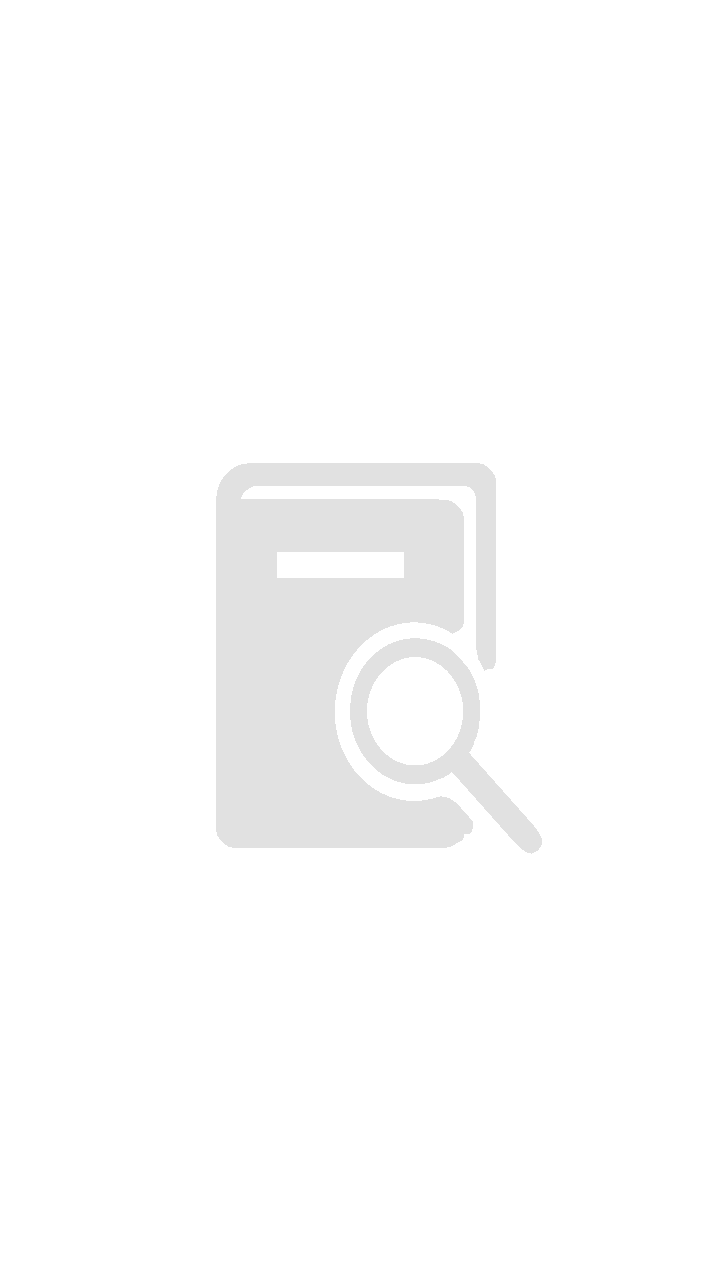
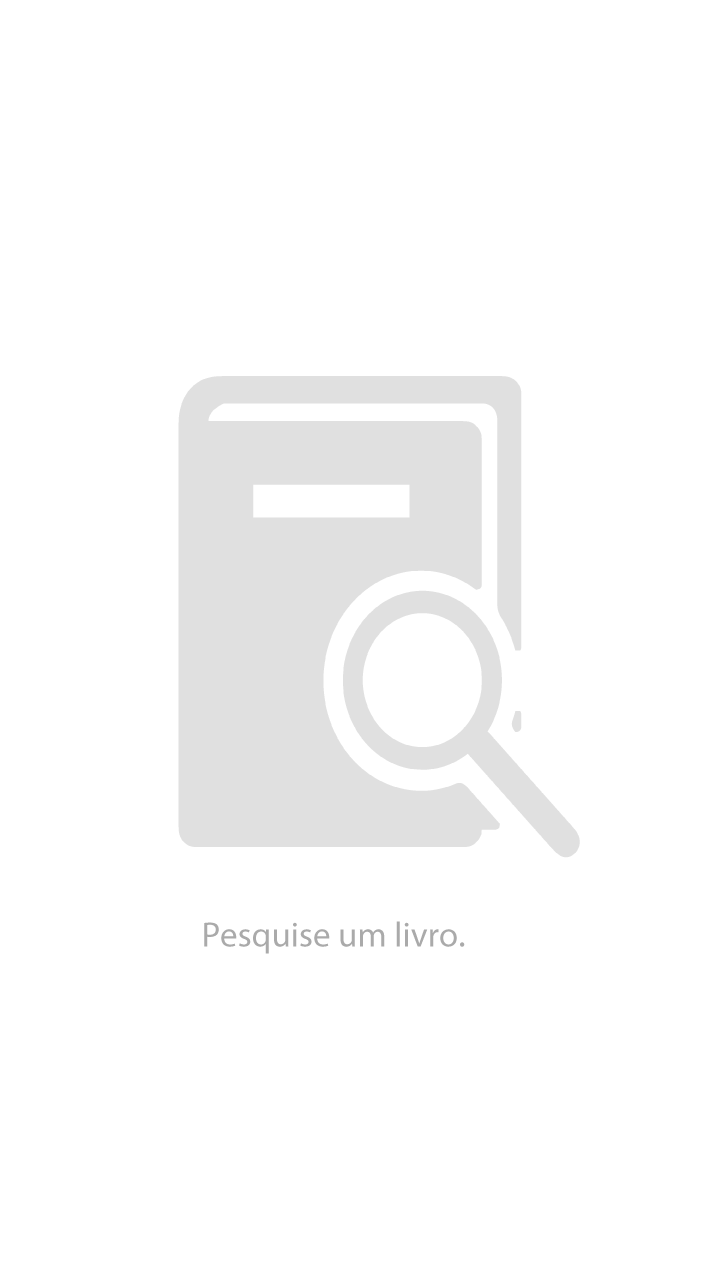
Ajuste ao grid

diff --git a/www/view/sideMenu.html b/www/view/sideMenu.html
@@ -13,30 +13,32 @@
     <header class="bar bar-header bar-stable">
      <!--<img class="title" src="img/brasao1_horizontal_cor.svg"-->
       <div class="ufcLogo">
-        <img class="title" style="margin-top: 2px; margin-left: 14px;" src="img/brasao1_horizontal_cor_72dpi.png" />
+        <img class="title" style="margin-top: 2px; margin-left: 17px;" src="img/brasao1_horizontal_cor_72dpi.png" />
       </div>
     </header>
     <ion-content class="has-header">
       <ion-list>
-        <ion-item menu-close href="#/app/home">
-          <i ng-class="{'mdi': isAndroid, 'mdi-home': isAndroid, 'ion-ios-home': isIOS}"></i><span class="text-vertical-aligned-menu">Home</span>
-        </ion-item>
-        <ion-item menu-close href="#/app/busca/false">
-          <i class="mdi mdi-magnify"></i><span class="text-vertical-aligned-menu">Pesquisar Livros</span>
-        </ion-item>  
-        <ion-item menu-close href="#/app/Bibliotecas">
-           <i class="mdi mdi-city"></i><span class="text-vertical-aligned-menu">Bibliotecas</span>
-        </ion-item>
-        </ion-item>
-        <ion-item menu-close href="#/app/livrosAlugados">
-          <i class="mdi glyphter" id="alugados">B</i><span class="text-vertical-aligned-menu">Livros Alugados</span>
-        </ion-item>
-        <ion-item menu-close href="#/app/codificacao">
-          <i class="mdi glyphter">A</i><span class="text-vertical-aligned-menu">Guia de Codificação</span>
-        </ion-item>
-        <ion-item menu-close href="#/app/sobre">
-          <i class="mdi mdi-information"></i><span class="text-vertical-aligned-menu">Sobre</span>
-        </ion-item>
+        <div class="sideMenu">
+          <ion-item menu-close href="#/app/home">
+            <i ng-class="{'mdi': isAndroid, 'mdi-home': isAndroid, 'ion-ios-home': isIOS}"></i><span class="text-vertical-aligned-menu">Home</span>
+          </ion-item>
+          <ion-item menu-close href="#/app/busca/false">
+            <i class="mdi mdi-magnify"></i><span class="text-vertical-aligned-menu">Pesquisar Livros</span>
+          </ion-item>  
+          <ion-item menu-close href="#/app/Bibliotecas">
+             <i class="mdi mdi-city"></i><span class="text-vertical-aligned-menu">Bibliotecas</span>
+          </ion-item>
+          </ion-item>
+          <ion-item menu-close href="#/app/livrosAlugados">
+            <i class="mdi glyphter" id="alugados">B</i><span class="text-vertical-aligned-menu"> Livros Alugados</span>
+          </ion-item>
+          <ion-item menu-close href="#/app/codificacao">
+            <i class="mdi glyphter">A</i><span class="text-vertical-aligned-menu">Guia de Codificação</span>
+          </ion-item>
+          <ion-item menu-close href="#/app/sobre">
+            <i class="mdi mdi-information"></i><span class="text-vertical-aligned-menu">Sobre</span>
+          </ion-item>
+        </div>
       </ion-list>
     </ion-content>
   </ion-side-menu>

diff --git a/www/view/addLivrosAlugados.html b/www/view/addLivrosAlugados.html
@@ -1,27 +1,41 @@
 <ion-view view-title="Adicionar Livros">
-	<ion-nav-bar class="bar-positive bar-azulUFC">
-		<ion-nav-back-button class="button-clear">
+	<ion-nav-bar class="bar-positive bar-azulUFC bar-azulUfc-shadow">
+		<ion-nav-buttons>
     		<button class="button button-icon icon mdi mdi-arrow-left" ng-click="goBack()"></button>
-  		</ion-nav-back-button>
+  		</ion-nav-buttons>
 	</ion-nav-bar>
 	<ion-content class="has-header" scroll="false">
 		<form name="addLivroForm" ng-submit="addLivro(livro)">
 			<div class="list ">
 			  <label class="item item-input">
-			    <span class="input-label">Livro</span>
+			    <span class="input-label" style="margin-left: 10px !important;">Livro:</span>
 			    <input type="text" ng-model="livro.nome_livro" ng-required="true"/>
 			  </label>
+			  <!--
 			  <label class="item item-input">
-			    <span class="input-label">Biblioteca</span>
-			    <input type="text" ng-model="livro.biblioteca_livro" ng-required="true"/>
+			    <span class="input-label">Biblioteca:</span>
+			    <select type="text" ng-model="livro.biblioteca_livro" ng-options="bibliotecas.sigla as label for sigla in bibliotecas" ng-required="true">
+			    </select>
+			    <option value="">Selecione uma biblioteca</option>
 			  </label>
+			  <i id="incoInfo" class="mdi mdi-calendar"></i>
+				-->
+			  <label class="item item-input item-select">
+			    <span class="input-label" style="margin-left: 10px !important;">
+			      Biblioteca:
+			    </span>
+			    <select ng-model="livro.biblioteca_livro" ng-options="biblioteca.sigla for biblioteca in bibliotecas">
+			    </select>			     
+			  </label>
+
 			  <label class="item item-input">
-			    <span class="input-label">Data de entrega</span>
+			    <span class="input-label" style="margin-left: 10px !important;">Data de entrega:</span>
 			    <input type="date" ng-model="livro.data_devolucao" min="{{dataAtual | date: 'yyyy-MM-dd'}}" ng-required="true"/>
 			  </label>
 			</div>
+
 			<button type="submit" class="mdl-button mdl-js-button mdl-button--raised mdl-button--accent centralizar">
-  				Salvar!
+  				Salvar
 			</button>
 		</form>
 	</ion-content>

diff --git a/www/view/home.html b/www/view/home.html
@@ -4,7 +4,7 @@
 			<img src="img/codexLogo.png">
 		</div>
 	</ion-nav-title>
-	<ion-nav-bar class="bar-positive bar-azulUFC">
+	<ion-nav-bar class="bar-positive bar-azulUFC ">
 		<ion-nav-buttons side="left">
 	    	<button menu-toggle="left" class="button button-icon icon mdi mdi-menu"></button>
 	  	</ion-nav-buttons>
@@ -12,15 +12,15 @@
 	  		
     	</ion-nav-buttons>
     	<ion-nav-buttons side="right">
-    		<button  class="button button-icon icon mdi mdi-bell-outline button-size-busca"></button>
+    		<button  class="button button-icon icon mdi mdi-bell-outline button-size-busca" ></button>
     		<a href="#/app/busca/true">
-      			<button  class="button button-icon icon mdi mdi-magnify button-size-busca" ng-click="doSomething()"></button>
+      			<button  class="button button-icon icon mdi mdi-magnify button-size-busca" id="busca-icon" ng-click="doSomething()"></button>
       		</a>
     	</ion-nav-buttons>
   	</ion-nav-bar>
 	
 	<ion-content class="has-header">
-			<div style="width:100%;margin-top:2vh"> <!--margin-top:2vh -->
+			<div style="width:100%;z-index: 9999;"> <!--margin-top:2vh -->
 				<div id="MenuTopo" style="padding:0;margin:0;background:#0066A5;height:7vh;">
 					<button class="button-small button-Home" ng-click="PreviewBiblio()" style="float:left;"><i class="ion-chevron-left"></i></button>
 					<button class="button-small button-Home" ng-click="NextBiblio()" style="float:right;"><i class="ion-chevron-right"></i></button>
@@ -50,7 +50,7 @@
 				</button>
 				
 				<div>
-					<p>Você Sabia ?</p>
+					<p >Você Sabia ?</p>
 				</div>
 			</div>	
 			<div id="Curiosidade" data-tap-disabled="false">

diff --git a/www/css/style.css b/www/css/style.css
@@ -1,8 +1,6 @@
 /* Empty. Add your own CSS if you like */
-.sideMenu a{
-	text-decoration: none;
-	color: black;
-	margin-left: 5%; 
+.sideMenu i{
+	margin-left: 1vw; 
 }
 
 body {
@@ -37,9 +35,13 @@ button.button-size-busca:before{
   font-size: 23px !important;
 }
 
+#busca-icon{
+  margin-top: 1px ;
+}
+
 .text-vertical-aligned-menu{
 	vertical-align: 10%;
-	margin-left: 20px;
+	margin-left: 17px;
 	color: #222 !important;
 }
 
@@ -82,6 +84,9 @@ button.centralizar{
   display: block;
   margin-left: auto;
   margin-right: auto;
+  margin-top: 10vh;
+  width: 40%;
+  height: 50px; !important;
 }
 .mdl-button--accent{
   background-color: #004B82 !important;
@@ -129,8 +134,12 @@ button.centralizar{
 	background-image: linear-gradient(0deg, #004B82, #004B82 50%, transparent 50%);
   top: 0;
   border-top-width: 0;
-  box-shadow: 0 3px 6px rgba(0,0,0,0.16), 0 3px 6px rgba(0,0,0,0.23);
+  
     }
+
+.bar-azulUfc-shadow{
+  box-shadow: 0 3px 6px rgba(0,0,0,0.16), 0 3px 6px rgba(0,0,0,0.23);
+}
 
 .list div.item{
   border-top: 0px;
@@ -195,7 +204,7 @@ button.centralizar{
   font-family: glyphter !important;
   font-size: 24px;
   vertical-align: -20%;
-  margin-left: 2px;
+  margin-left: 7px !important;
   margin-right: -2px;
 }
 
@@ -204,9 +213,20 @@ button.centralizar{
 }
 
 .capaInfo{
-  width: 62%; 
+  width: 60vw; 
   margin-bottom: 5vh;
   display: block;
   margin-right: auto;
   margin-left: auto;
+}
+
+.infoLivro-item{
+  margin-left: 1vw;
+}
+
+#incoInfo{
+  position: fixed;
+  z-index: 10;
+  margin-left: 55vw;
+  margin-top: 1vh;
 }

diff --git a/www/view/buscaInfoLivro.html b/www/view/buscaInfoLivro.html
@@ -1,5 +1,5 @@
 <ion-view view-title="Detalhes da Obra" ng-controller="buscaCtrl">
-	<ion-nav-bar class="bar-positive bar-azulUFC">
+	<ion-nav-bar class="bar-positive bar-azulUFC bar-azulUfc-shadow">
 		<ion-nav-buttons side="left">
 		      <button class="button button-icon icon mdi mdi-arrow-left" ng-click="goBack()"></button>
 		</ion-nav-buttons>
@@ -8,10 +8,12 @@
     	<div class="list color-text no-border">
             <div class="item">
                 <img ng-src="{{livro.capa}}" class="capaInfo">
-        		<h2><strong>Título: </strong> {{livro.nome_livro}} </h2>
-                <p class="infoLivro"><strong>Número de chamada:</strong> {{livro.codigo}} ({{livro.local}})</p>
-        		<p class="infoLivro"><strong>Total de exemplares: </strong> {{livro.numLivros}} </p>
-        		<p class="infoLivro"><strong>Disponível no acervo: </strong> {{livro.disponivel}} </p>
+                <div class="infoLivro-item">
+            		<h2><strong>Título: </strong> {{livro.nome_livro}} </h2>
+                    <p class="infoLivro"><strong>Número de chamada:</strong> {{livro.codigo}} ({{livro.local}})</p>
+            		<p class="infoLivro"><strong>Total de exemplares: </strong> {{livro.numLivros}} </p>
+            		<p class="infoLivro"><strong>Disponível no acervo: </strong> {{livro.disponivel}} </p>
+                </div>
             </div>
     	</div>
         

diff --git a/www/view/busca.html b/www/view/busca.html
@@ -1,6 +1,6 @@
 <body>
 	<ion-view view-title="Pesquisa">
-		<ion-nav-bar class="bar-positive bar-azulUFC">
+		<ion-nav-bar class="bar-positive bar-azulUFC bar-azulUfc-shadow">
 			<ion-nav-buttons side="left">
 		    	<button menu-toggle="left" class="button button-icon icon mdi mdi-menu"></button>
 		  	</ion-nav-buttons>
@@ -13,6 +13,7 @@
     		</ion-refresher>
     		<div ng-show="busca.length < 3 || busca.length == 0" class="empty-screen">
 	        	<img src="img/livrobusca.png">
+	        	
 	        </div>
 	        <ion-list ng-show="busca.length >= 3">
 	        	<ion-item ng-repeat="livro in livros | filter: busca" href="#/livroInfo/{{livro.id}}" >
@@ -25,8 +26,8 @@
 		        	</div>	
 	        	</ion-item>
 	        </ion-list>
-	        <div ng-show="livros.length == 0 && busca.length >= 3">
-	        	<p class="text-margin color-text">Nenhum resultado encontrado</p>
+	        <div ng-show="livros.length == 0 && busca.length >= 3" class="empty-screen">
+	        	<img src="img/pesquisarerro.png">
 	        </div>
 		</ion-content>
 	</ion-view>

diff --git a/www/js/controllers/livrosAlugadosCtrl.js b/www/js/controllers/livrosAlugadosCtrl.js
@@ -8,7 +8,8 @@ angular.module('codex').controller('livrosAlugadosCtrl', ['$scope', '$cordovaLoc
 	//storageService.limpaRegistro();
 	//console.log($scope.livros);
 	//console.log($state.current.name);
-
+	$scope.bibliotecas = Bibliotecas;
+	//console.log($scope.bibliotecas[0].sigla);
 	//impede que o menu abra arrastando
 	if($state.current.name == 'app.addLivro')
 	{
@@ -29,7 +30,7 @@ angular.module('codex').controller('livrosAlugadosCtrl', ['$scope', '$cordovaLoc
 		console.log(dataDev);
 		storageService.addLivro({
 					nome_livro: livro.nome_livro,
-					biblioteca_livro: livro.biblioteca_livro,
+					biblioteca_livro: livro.biblioteca_livro.sigla,
 					data_devolucao: dataDev
 				});
 		delete $scope.livro;

diff --git a/www/css/controle.css b/www/css/controle.css
@@ -79,7 +79,7 @@ div#Texto{
 	padding:0;width:15%;height:7vh;border:none;
 }
 #MenuTopo button.button-small.button-Home{
-	font-size:3vh;background-color:#004B82;color:#EEE;
+	font-size:3vh;background-color:#0066A5;color:#EEE;
 }
 #VoceSabia{
 	width:100%;margin-top:2vh
@@ -88,11 +88,12 @@ div#Texto{
 	background-color:#FFF;color:#AAA;font-size:5vh;
 }
 #VoceSabia div p{
-	padding:1vh;margin-top:1vh;text-align:center;font-size:4vh;color:#333;
+	padding:1vh;margin-top:1vh;text-align:center;font-size:4vh;color:#222;
+	margin-left: 1vw;
 }
 #Curiosidade{
 	margin-top:2vh ;
-	margin-left:5vw;
+	margin-left:6vw;
 	width:90vw;
 	height:35vh;
 	font-size:3vh; 

diff --git a/www/view/biblioteca_exibicao.html b/www/view/biblioteca_exibicao.html
@@ -1,5 +1,5 @@
 <ion-view  view-title="{{Biblioteca.sigla}}">
-	<ion-nav-bar class="bar-positive bar-azulUFC">
+	<ion-nav-bar class="bar-positive bar-azulUFC bar-azulUfc-shadow">
 		<ion-nav-buttons side="left">
 	    	<button ng-click="goBack()" class="button button-icon ion-android-arrow-back"></button>
 	  	</ion-nav-buttons>

diff --git a/www/view/biblioteca_GPS.html b/www/view/biblioteca_GPS.html
@@ -1,5 +1,5 @@
 <ion-view view-title="Localização">
-		<ion-nav-bar class="bar-positive bar-azulUFC">
+		<ion-nav-bar class="bar-positive bar-azulUFC bar-azulUfc-shadow">
 		<ion-nav-buttons side="left">
 		      <button ng-click="goBack()" class="button button-icon ion-android-arrow-back"></button>
 		</ion-nav-buttons>

diff --git a/www/view/codificacao.html b/www/view/codificacao.html
@@ -1,5 +1,5 @@
 <ion-view view-title="Guia de Codificação">
-	<ion-nav-bar class="bar-positive bar-azulUFC">
+	<ion-nav-bar class="bar-positive bar-azulUFC bar-azulUfc-shadow">
 		<ion-nav-buttons side="left">
 	    	<button menu-toggle="left" class="button button-icon icon mdi mdi-menu"></button>
 	  	</ion-nav-buttons>

diff --git a/www/view/livrosAlugadosAddLivro.html b/www/view/livrosAlugadosAddLivro.html
@@ -1,5 +1,5 @@
 <ion-view view-title="Adicionar Livro">
-	<ion-nav-bar class="bar-positive bar-azulUFC">
+	<ion-nav-bar class="bar-positive bar-azulUFC bar-azulUfc-shadow">
 		<ion-nav-buttons side="left">
 	    <button ng-click="goBack()" class="button button-icon ion-android-arrow-back"></button>
 	  </ion-nav-buttons>
